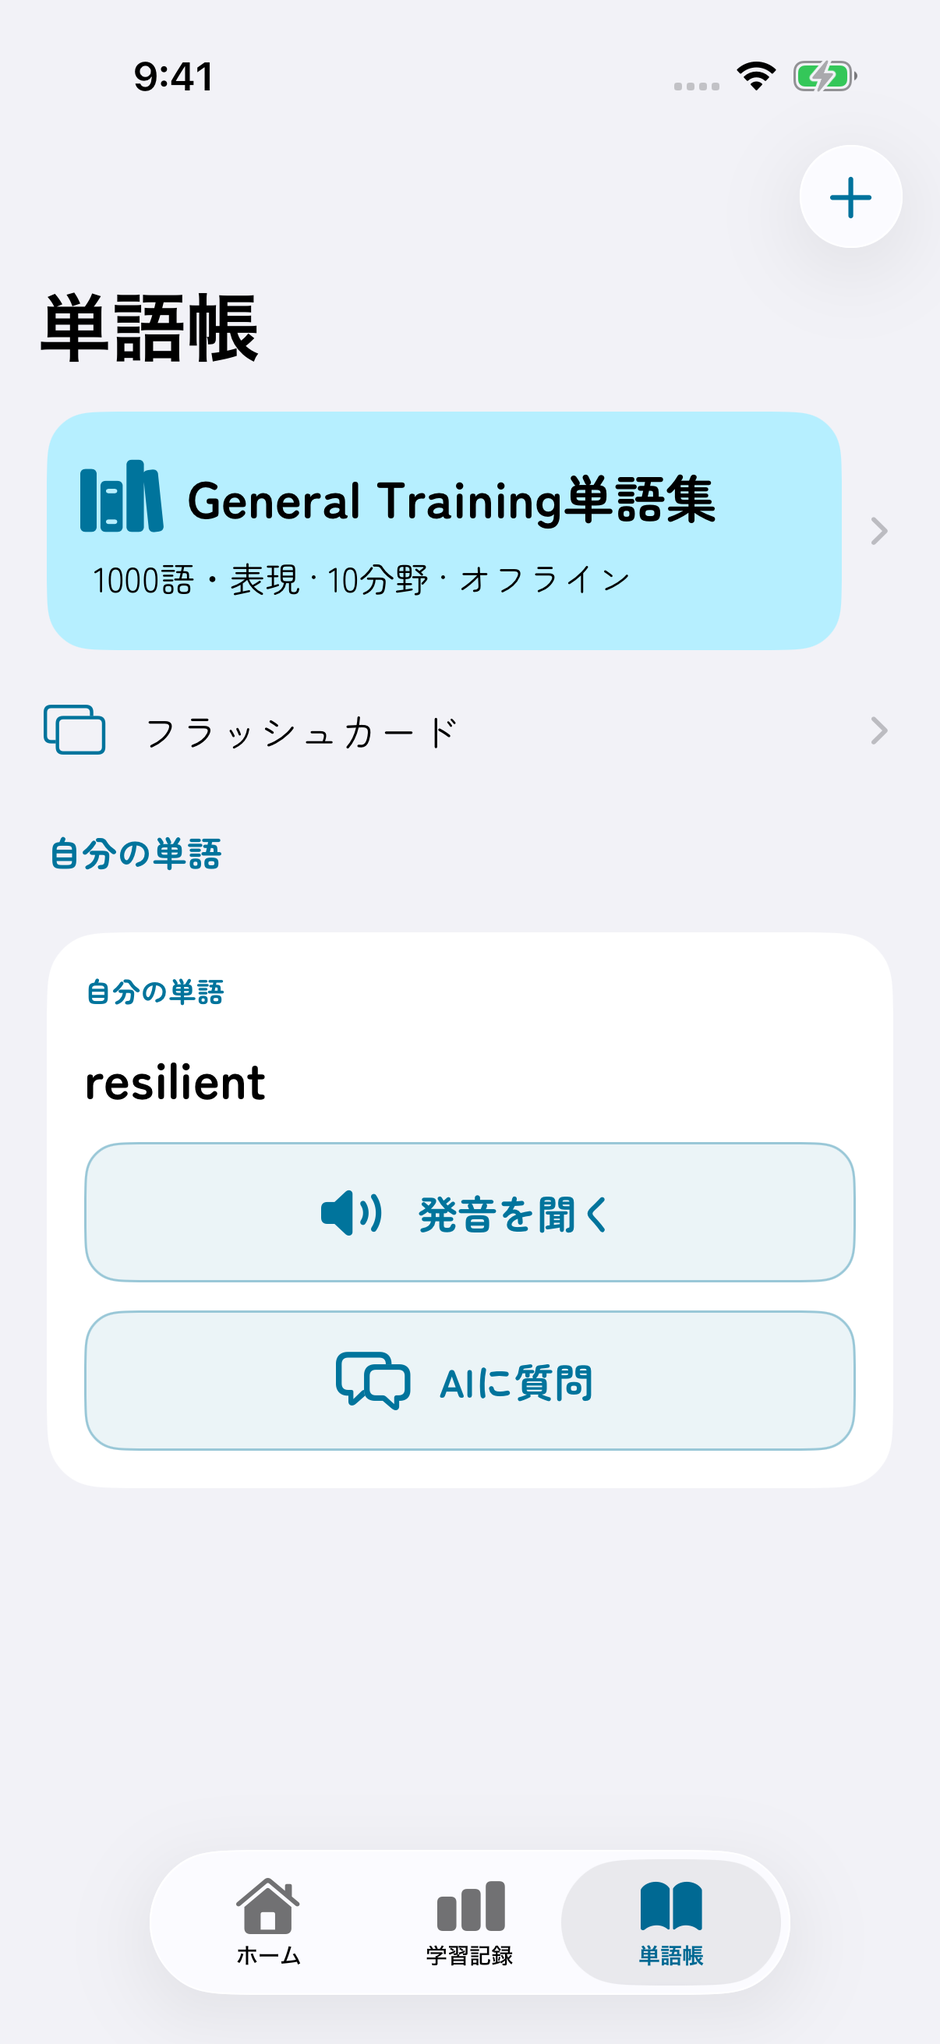
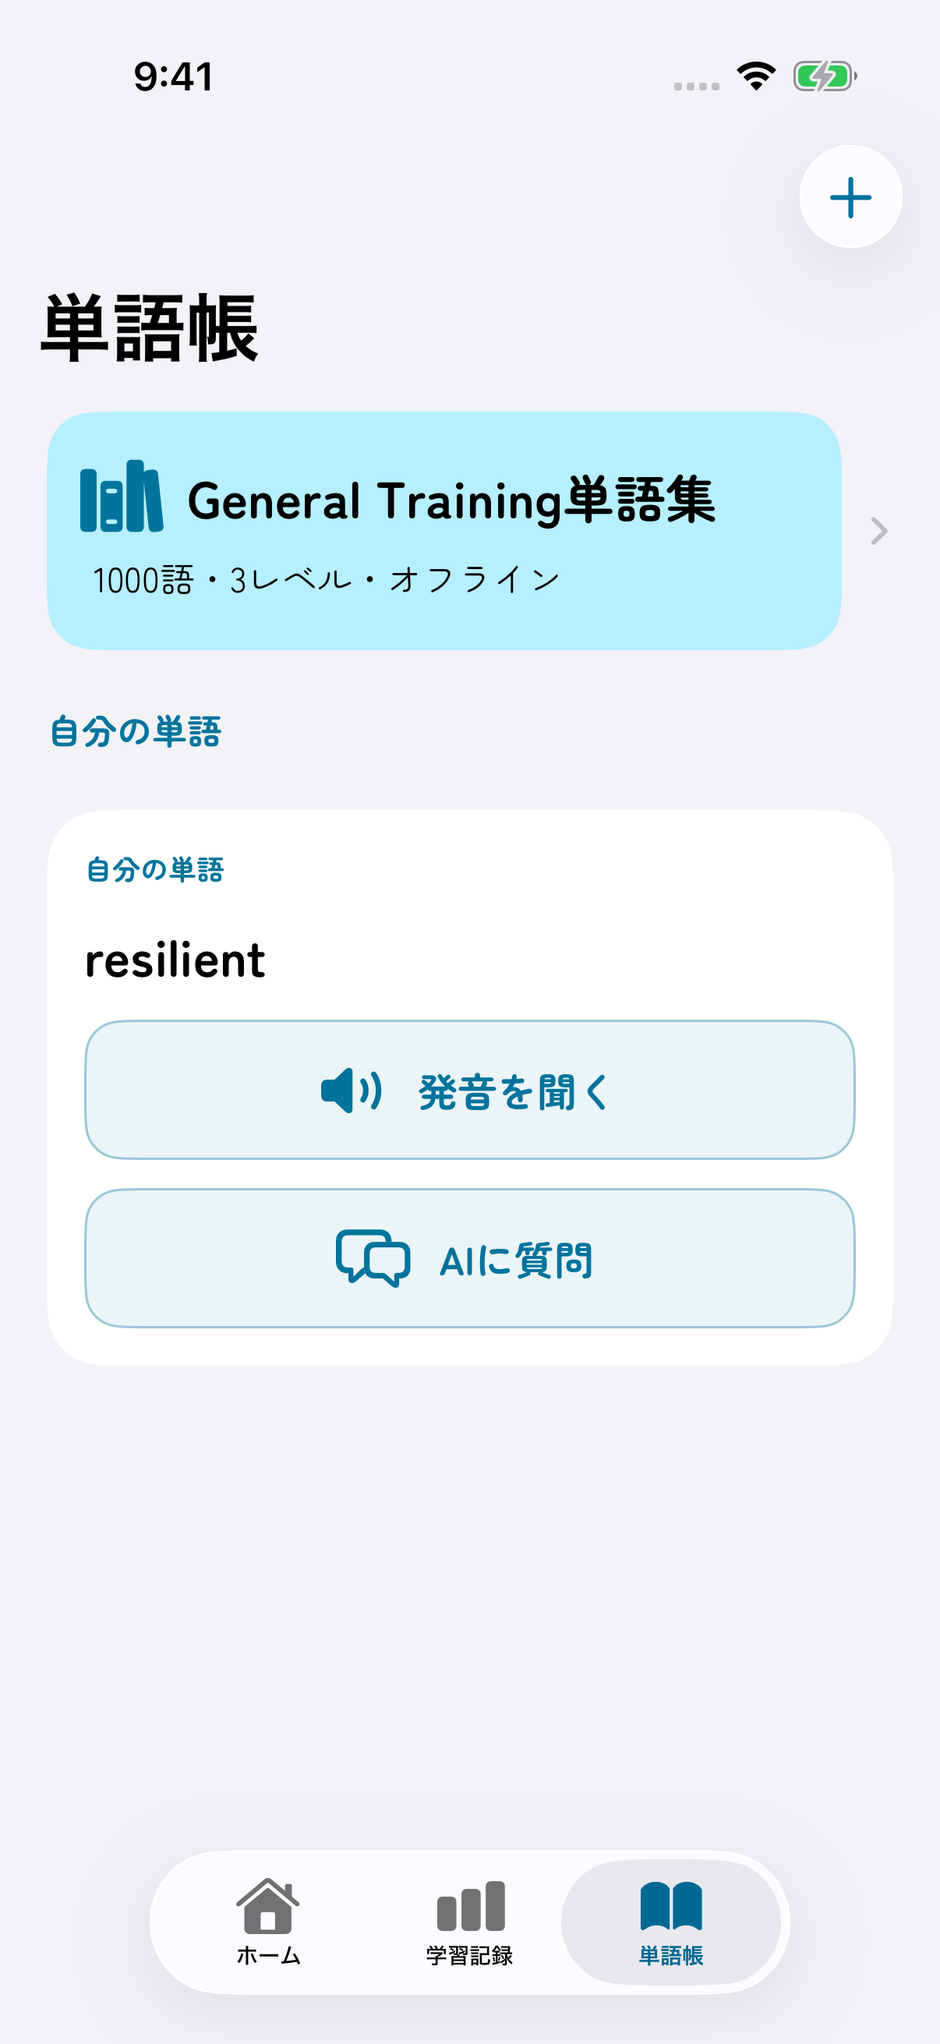
Restore bundled section selection and simplify vocabulary screens

diff --git a/Sources/Features/Home/StudyLibrary.swift b/Sources/Features/Home/StudyLibrary.swift
@@ -13,20 +13,6 @@ struct StarterWord: Identifiable, Decodable {
     var context: String { expression + "\n" + definition + "\n" + example }
     static let levels = ["Foundation · 4–5", "Developing · 5.5–6.5", "Advanced · 7+"]
     static let topics = ["housing", "work", "training", "shopping", "travel", "health", "community", "money", "correspondence", "society"]
-    static func topicName(_ topic: String) -> String {
-        switch topic {
-        case "housing": String(localized: "Housing")
-        case "work": String(localized: "Work")
-        case "training": String(localized: "Study and training")
-        case "shopping": String(localized: "Shopping and services")
-        case "travel": String(localized: "Travel")
-        case "health": String(localized: "Health")
-        case "community": String(localized: "Community")
-        case "money": String(localized: "Money")
-        case "correspondence": String(localized: "Letters and requests")
-        default: String(localized: "Society and environment")
-        }
-    }
     static let all: [Self] = {
         guard let url = Bundle.main.url(forResource: "GeneralTrainingWords", withExtension: "json", subdirectory: "Vocabulary"),
               let data = try? Data(contentsOf: url),
@@ -40,10 +26,9 @@ struct VocabularyLibraryScreen: View {
     @State private var level = 0
     @State private var selected: StarterWord?
     @State private var search = ""
-    @State private var topic = ""
     @StateObject private var pronunciation = WordPronouncer()
     private var filtered: [StarterWord] {
-        StarterWord.all.filter { $0.level == level && (topic.isEmpty || $0.topic == topic) &&
+        StarterWord.all.filter { $0.level == level &&
             (search.isEmpty || $0.expression.localizedCaseInsensitiveContains(search) || $0.definition.localizedCaseInsensitiveContains(search)) }
     }
     var body: some View {
@@ -53,13 +38,6 @@ struct VocabularyLibraryScreen: View {
                     .font(StudyTypography.subheadline).foregroundStyle(StudyColors.accent)
                 Text(String(localized: "Study levels are a guide, not official IELTS word lists."))
                     .font(StudyTypography.caption).foregroundStyle(StudyColors.secondaryText)
-                Picker(String(localized: "Topic"), selection: $topic) {
-                    Text(String(localized: "All topics")).tag("")
-                    ForEach(StarterWord.topics, id: \.self) { Text(StarterWord.topicName($0)).tag($0) }
-                }.font(StudyTypography.subheadline)
-                StudyLink { FlashcardScreen(cards: filtered.map(VocabularyCard.init), store: store) } label: {
-                    Label(String(localized: "Flashcards"), systemImage: "rectangle.on.rectangle")
-                }.buttonStyle(StudyPrimaryButtonStyle()).disabled(filtered.isEmpty).accessibilityIdentifier("library.flashcards")
                 ForEach(StarterWord.levels.indices, id: \.self) { index in
                     Button { level = index } label: {
                         HStack {
@@ -72,7 +50,6 @@ struct VocabularyLibraryScreen: View {
                 if filtered.isEmpty { ContentUnavailableView.search(text: search) }
                 ForEach(filtered) { word in
                     VStack(alignment: .leading, spacing: 12) {
-                        Text(StarterWord.topicName(word.topic)).font(StudyTypography.caption).foregroundStyle(StudyColors.accent)
                         Text(word.expression).font(StudyTypography.heading).textSelection(.enabled)
                         WordPronunciationButton(word: word.expression, pronunciation: pronunciation)
                         Text(word.definition).font(StudyTypography.body).textSelection(.enabled)
@@ -87,7 +64,6 @@ struct VocabularyLibraryScreen: View {
             .searchable(text: $search)
             .onDisappear { pronunciation.stop() }
             .onChange(of: level) { _, _ in pronunciation.stop() }
-            .onChange(of: topic) { _, _ in pronunciation.stop() }
             .sheet(item: $selected, onDismiss: { store.send(.closeQuestion) }) { word in
                 TutorScreen(store: store, context: word.context, selectedText: word.expression, vocabularyMode: true)
             }
@@ -192,90 +168,6 @@ struct VocabularyCard: Identifiable, Equatable {
     static func waitingDeck(_ saved: [SavedExpression]) -> [Self] {
         let personal = saved.compactMap(Self.init).filter { !$0.meaning.isEmpty }
         return (personal.isEmpty ? StarterWord.all.map(Self.init) : personal).shuffled()
-    }
-}
-
-struct FlashcardSession {
-    private(set) var cards: [VocabularyCard]
-    private(set) var index = 0
-    private(set) var revealed = false
-    private(set) var remembered = 0
-    private(set) var review: [VocabularyCard] = []
-    var current: VocabularyCard? { cards.indices.contains(index) ? cards[index] : nil }
-    init(cards: [VocabularyCard], limit: Int = 20) {
-        var ids = Set<String>()
-        self.cards = Array(cards.filter { ids.insert($0.id).inserted }.shuffled().prefix(max(0, limit)))
-    }
-    mutating func reveal() { if current != nil { revealed = true } }
-    mutating func answer(remembered knew: Bool) {
-        guard revealed, let card = current else { return }
-        if knew { remembered += 1 } else { review.append(card) }
-        index += 1; revealed = false
-    }
-}
-
-struct FlashcardScreen: View {
-    let cards: [VocabularyCard]
-    let store: StoreOf<StudyFeature>
-    @State private var session: FlashcardSession
-    @State private var tutor: VocabularyCard?
-    @StateObject private var pronunciation = WordPronouncer()
-    init(cards: [VocabularyCard], store: StoreOf<StudyFeature>) {
-        self.cards = cards; self.store = store
-        _session = State(initialValue: FlashcardSession(cards: cards))
-    }
-    var body: some View {
-        ScrollView {
-            VStack(alignment: .leading, spacing: 24) {
-                if let card = session.current {
-                    HStack {
-                        Text("\(session.index + 1) / \(session.cards.count)").font(StudyTypography.headline).monospacedDigit()
-                        Spacer()
-                        Label(String(localized: "Shuffled practice"), systemImage: "shuffle").font(StudyTypography.caption)
-                    }
-                    ProgressView(value: Double(session.index), total: Double(session.cards.count))
-                    VStack(alignment: .leading, spacing: 20) {
-                        Text(card.word).font(StudyTypography.title).accessibilityIdentifier("flashcard.word")
-                        WordPronunciationButton(word: card.word, pronunciation: pronunciation)
-                        if session.revealed {
-                            Text(card.meaning.isEmpty ? String(localized: "Meaning unavailable. Ask AI to explain this word.") : card.meaning)
-                                .font(StudyTypography.body).accessibilityIdentifier("flashcard.meaning")
-                            if !card.example.isEmpty { Text(card.example).font(StudyTypography.subheadline).foregroundStyle(StudyColors.secondaryText) }
-                            Button(String(localized: "AIに質問"), systemImage: "bubble.left.and.bubble.right") { pronunciation.stop(); tutor = card }
-                                .buttonStyle(StudySecondaryButtonStyle())
-                        } else {
-                            Button(String(localized: "Show meaning"), systemImage: "eye") { session.reveal() }
-                                .buttonStyle(StudyPrimaryButtonStyle()).accessibilityIdentifier("flashcard.reveal")
-                        }
-                    }.padding(24).frame(maxWidth: .infinity, minHeight: 260, alignment: .leading)
-                        .background(StudyColors.mockCard, in: RoundedRectangle(cornerRadius: 24))
-                    if session.revealed {
-                        Button(String(localized: "Remembered"), systemImage: "checkmark") { pronunciation.stop(); session.answer(remembered: true) }
-                            .buttonStyle(StudyPrimaryButtonStyle()).accessibilityIdentifier("flashcard.remembered")
-                        Button(String(localized: "Review again"), systemImage: "arrow.counterclockwise") { pronunciation.stop(); session.answer(remembered: false) }
-                            .buttonStyle(StudySecondaryButtonStyle()).accessibilityIdentifier("flashcard.again")
-                    }
-                    Text(String(localized: "Self-assessment only. This does not change your IELTS estimate."))
-                        .font(StudyTypography.caption).foregroundStyle(StudyColors.secondaryText)
-                } else if session.cards.isEmpty {
-                    ContentUnavailableView(String(localized: "No words to practise"), systemImage: "rectangle.on.rectangle")
-                } else {
-                    Label(String(localized: "Practice complete"), systemImage: "checkmark.seal.fill").font(StudyTypography.title)
-                    Text(String(format: String(localized: "Remembered: %@ / %@"), String(session.remembered), String(session.cards.count)))
-                        .font(StudyTypography.heading).accessibilityIdentifier("flashcard.result")
-                    if !session.review.isEmpty {
-                        Button(String(localized: "Review again"), systemImage: "arrow.counterclockwise") { session = FlashcardSession(cards: session.review) }
-                            .buttonStyle(StudyPrimaryButtonStyle())
-                    }
-                    Button(String(localized: "Shuffle and restart"), systemImage: "shuffle") { session = FlashcardSession(cards: cards) }
-                        .buttonStyle(StudySecondaryButtonStyle()).accessibilityIdentifier("flashcard.restart")
-                }
-            }.padding(24).frame(maxWidth: 650).frame(maxWidth: .infinity)
-        }.navigationTitle(String(localized: "Flashcards")).navigationBarTitleDisplayMode(.inline)
-            .onDisappear { pronunciation.stop() }
-            .sheet(item: $tutor, onDismiss: { store.send(.closeQuestion) }) { card in
-                TutorScreen(store: store, context: card.context, selectedText: card.word, vocabularyMode: true)
-            }
     }
 }
 

diff --git a/Sources/Features/Home/HomeScreen.swift b/Sources/Features/Home/HomeScreen.swift
@@ -5,8 +5,21 @@ struct HomeScreen: View {
     let store: StoreOf<StudyFeature>
     @State private var settings = false
     @State private var practice = false
-    @State private var units: [ExamUnit] = []
-    @State private var loadError: String?
+    private let units: [ExamUnit]
+    private let loadError: String?
+
+    init(store: StoreOf<StudyFeature>) {
+        self.store = store
+        // Bundled content must exist before value-based navigation captures a destination.
+        // Loading in onAppear can permanently capture an empty section list.
+        do {
+            units = try ExamUnit.load()
+            loadError = nil
+        } catch {
+            units = []
+            loadError = error.localizedDescription
+        }
+    }
     @Environment(\.dynamicTypeSize) private var typeSize
 
     private let skills: [(name: String, detail: String, symbol: String, tint: Color)] = [
@@ -62,7 +75,6 @@ struct HomeScreen: View {
         .onAppear {
             store.send(.settings(.opened))
             store.send(.settings(.refreshAccount))
-            do { units = try ExamUnit.load() } catch { loadError = error.localizedDescription }
         }
         .sheet(isPresented: $settings) { SettingsScreen(store: store.scope(state: \.settings, action: \.settings)) }
         .fullScreenCover(isPresented: $practice, onDismiss: { store.send(.finish) }) { PracticeScreen(store: store) }
@@ -166,6 +178,7 @@ struct HomeScreen: View {
                     Label(String(localized: "保存した問題から練習"), systemImage: "bookmark.fill")
                 }.buttonStyle(StudySecondaryButtonStyle()).accessibilityIdentifier("part.savedPapers")
                 Text(String(format: String(localized: "練習する%@を選択"), String(noun))).font(StudyTypography.headline)
+                if let loadError { Text(loadError).foregroundStyle(StudyColors.error) }
                 ForEach(Array(parts.enumerated()), id: \.element.id) { index, part in
                     VStack(alignment: .leading, spacing: 16) {
                         StudyLink { ExamScreen(units: [part], store: store) } label: {
@@ -265,13 +278,10 @@ struct VocabularyScreen: View {
                 StudyLink { VocabularyLibraryScreen(store: store) } label: {
                     VStack(alignment: .leading, spacing: 8) {
                         Label(String(localized: "IELTS word library"), systemImage: "books.vertical.fill").font(StudyTypography.heading)
-                        Text(String(format: String(localized: "%@ words and phrases · 10 topics · Offline"), String(StarterWord.all.count))).font(StudyTypography.subheadline)
+                        Text(String(format: String(localized: "%@ words · 3 levels · Offline"), String(StarterWord.all.count))).font(StudyTypography.subheadline)
                     }.padding(20).frame(maxWidth: .infinity, alignment: .leading)
                         .background(StudyColors.reading, in: RoundedRectangle(cornerRadius: 20))
                 }.buttonStyle(.plain).accessibilityIdentifier("vocabulary.library")
-                StudyLink { FlashcardScreen(cards: store.vocabulary.compactMap(VocabularyCard.init), store: store) } label: {
-                    Label(String(localized: "Flashcards"), systemImage: "rectangle.on.rectangle")
-                }.buttonStyle(StudyPrimaryButtonStyle()).disabled(store.vocabulary.isEmpty).accessibilityIdentifier("vocabulary.flashcards")
                 Text(String(localized: "My vocabulary")).font(StudyTypography.subheadline.bold()).foregroundStyle(StudyColors.accent)
                 if store.vocabulary.isEmpty {
                     ContentUnavailableView(String(localized: "単語帳は空です"), systemImage: "book", description: Text(String(localized: "本文や解説を長押しして表現を追加できます。")))

diff --git a/UITests/PocketIELTSUITests.swift b/UITests/PocketIELTSUITests.swift
@@ -63,7 +63,10 @@ final class PocketIELTSUITests: XCTestCase {
         app.buttons["vocabulary.saveManual"].tap()
         XCTAssertTrue(app.staticTexts["resilient"].waitForExistence(timeout: 5))
         capture("iphone-my-vocabulary")
+        XCTAssertFalse(app.buttons["vocabulary.flashcards"].exists)
         app.buttons["vocabulary.library"].tap()
+        XCTAssertFalse(app.buttons["library.flashcards"].exists)
+        XCTAssertFalse(app.buttons["すべての分野"].exists)
         XCTAssertTrue(app.staticTexts["accommodation"].waitForExistence(timeout: 5))
         XCTAssertFalse(app.staticTexts["resilient"].exists)
         capture("iphone-word-library")
@@ -78,20 +81,16 @@ final class PocketIELTSUITests: XCTestCase {
         XCTAssertTrue(app.staticTexts["resilient"].waitForExistence(timeout: 5))
     }
 
-    func testFlashcardsRevealReviewAndRestart() {
-        navigate("単語帳", tag: 2)
-        app.buttons["vocabulary.library"].tap()
-        app.buttons["library.flashcards"].tap()
-        XCTAssertTrue(app.staticTexts["flashcard.word"].waitForExistence(timeout: 5))
-        XCTAssertFalse(app.staticTexts["flashcard.meaning"].exists)
-        capture("iphone-flashcard-front")
-        app.buttons["flashcard.reveal"].tap()
-        XCTAssertTrue(app.staticTexts["flashcard.meaning"].exists)
-        capture("iphone-flashcard-back")
-        let first = app.staticTexts["flashcard.word"].label
-        app.buttons["flashcard.again"].tap()
-        XCTAssertNotEqual(app.staticTexts["flashcard.word"].label, first)
-        XCTAssertFalse(app.staticTexts["flashcard.meaning"].exists)
+    func testSectionsAvailableOnFirstNavigation() {
+        app.terminate()
+        app.launch()
+        app.buttons["home.skill.Reading"].tap()
+        for section in 1...3 {
+            XCTAssertTrue(app.buttons["part.open.Reading / Section \(section)"].waitForExistence(timeout: 12))
+        }
+        capture("iphone-reading-sections")
+        app.buttons["part.open.Reading / Section 1"].tap()
+        XCTAssertTrue(app.staticTexts["Community services"].waitForExistence(timeout: 5))
     }
 
     func testOfflineLibraryOpensBundledReading() {

diff --git a/Tests/PocketIELTSTests.swift b/Tests/PocketIELTSTests.swift
@@ -56,27 +56,6 @@ final class PocketIELTSTests: XCTestCase {
         XCTAssertNil(VocabularyCard(SavedExpression(expression: "  ", source: "manual", sourceText: "")))
     }
 
-    func testFlashcardsRequireRevealAndTrackReviewWithoutRepeats() throws {
-        let cards = StarterWord.all.prefix(30).map(VocabularyCard.init)
-        var session = FlashcardSession(cards: cards + cards)
-        XCTAssertEqual(session.cards.count, 20)
-        XCTAssertEqual(Set(session.cards.map(\.id)).count, 20)
-        session.answer(remembered: true)
-        XCTAssertEqual(session.index, 0)
-        for index in 0..<20 {
-            XCTAssertNotNil(session.current)
-            session.reveal()
-            session.answer(remembered: index.isMultiple(of: 2))
-            XCTAssertFalse(session.revealed)
-        }
-        XCTAssertNil(session.current)
-        XCTAssertEqual(session.remembered, 10)
-        XCTAssertEqual(session.review.count, 10)
-        session.answer(remembered: true)
-        XCTAssertEqual(session.remembered, 10)
-        XCTAssertNil(FlashcardSession(cards: []).current)
-    }
-
     func testPronunciationUsesEnglishAndStopsCleanly() {
         let utterance = WordPronouncer.utterance(for: "accommodation")
         XCTAssertEqual(utterance.speechString, "accommodation")

diff --git a/Sources/App/IELTSNavigation.swift b/Sources/App/IELTSNavigation.swift
@@ -15,7 +15,7 @@ extension EnvironmentValues {
 }
 
 /// A stable destination identity lets every study link participate in the stack's path.
-/// Content is captured when the link is followed; it is not persisted across launches.
+/// Destination content is captured in the navigation value. Load bundled data before creating links.
 struct StudyRoute: Hashable {
     let id: UUID
     let destination: AnyView

diff --git a/README.md b/README.md
@@ -197,11 +197,11 @@ For **My Mac (Designed for iPad)**, ChatGPT sign-in now uses `ASWebAuthenticatio
 
 After updating, start a new sign-in from Settings; an old localhost error tab belongs to an expired attempt and cannot complete a new sign-in. The callback is checked against the original OAuth state, and the listener is cleaned up after completion or cancellation. A local integration test verifies the callback without an OpenAI request. Live account authentication still requires verification on the Mac with the user's account.
 
-### General Training vocabulary and flashcards
+### General Training vocabulary
 
-The collection contains 100 entries in each of ten topics: 400 Foundation (Band 4–5 guide), 400 Developing (5.5–6.5 guide) and 200 Advanced (7+ guide) entries overall. The familiar score-based groups are retained alongside the new topic filter. These are editorial learning guides, not official IELTS band assignments, CEFR classifications or an official word list. Content was rewritten for everyday life, employment, services and correspondence, following the contexts described in the official [General Training Reading format](https://ielts.org/take-a-test/test-types/ielts-general-training-test/ielts-general-training-format-reading/) and [Writing format](https://ielts.org/take-a-test/test-types/ielts-general-training-test/ielts-general-training-format-writing). Every definition and example in this collection is original; the previous WordNet subset is no longer bundled.
+The collection contains 100 entries in each of ten topics: 400 Foundation (Band 4–5 guide), 400 Developing (5.5–6.5 guide) and 200 Advanced (7+ guide) entries overall. The score-based groups are retained; the library uses level selection and search without a topic filter. These are editorial learning guides, not official IELTS band assignments, CEFR classifications or an official word list. Content was rewritten for everyday life, employment, services and correspondence, following the contexts described in the official [General Training Reading format](https://ielts.org/take-a-test/test-types/ielts-general-training-test/ielts-general-training-format-reading/) and [Writing format](https://ielts.org/take-a-test/test-types/ielts-general-training-test/ielts-general-training-format-writing). Every definition and example in this collection is original; the previous WordNet subset is no longer bundled.
 
-Filter by topic and level, then search words or definitions. **Flashcards** shuffles up to 20 entries from the filtered collection or your personal vocabulary without repeating a card within the round. Reveal the meaning, mark **Remembered** or **Review again**, and review missed cards or shuffle a new round. This self-assessment does not change your IELTS estimate. Personal words without a stored or matching library meaning show an explicit message and offer the AI tutor.
+Choose a score-based level, then search words or definitions. Flashcard entry points have been removed from both vocabulary screens to keep the flow simple. Saved words and the General Training library remain separate.
 
 **Hear pronunciation** uses an installed English system voice, preferring British English. It does not call a paid API. Playback stops when changing cards, leaving the screen or moving the app to the background. Offline playback depends on an English voice being installed on the device.
 
@@ -210,8 +210,6 @@ During exercise generation, a card immediately displays a **word, meaning and ex
 The editable source is in [Scripts/Vocabulary](Scripts/Vocabulary); rebuild and validate all 1,000 entries with `python3 Scripts/build-vocabulary.py`. CI checks that this reproduces the bundled JSON.
 
 <p align="center">
-  <img src="Documentation/Screenshots/iphone-flashcard-front.png" width="250" alt="A random vocabulary flashcard before revealing its meaning" />
-  <img src="Documentation/Screenshots/iphone-flashcard-back.png" width="250" alt="Revealed meaning, contextual example and pronunciation action" />
   <img src="Documentation/Screenshots/iphone-generation-vocabulary.png" width="250" alt="Word and meaning shown together while an exercise is generated" />
 </p>
 
